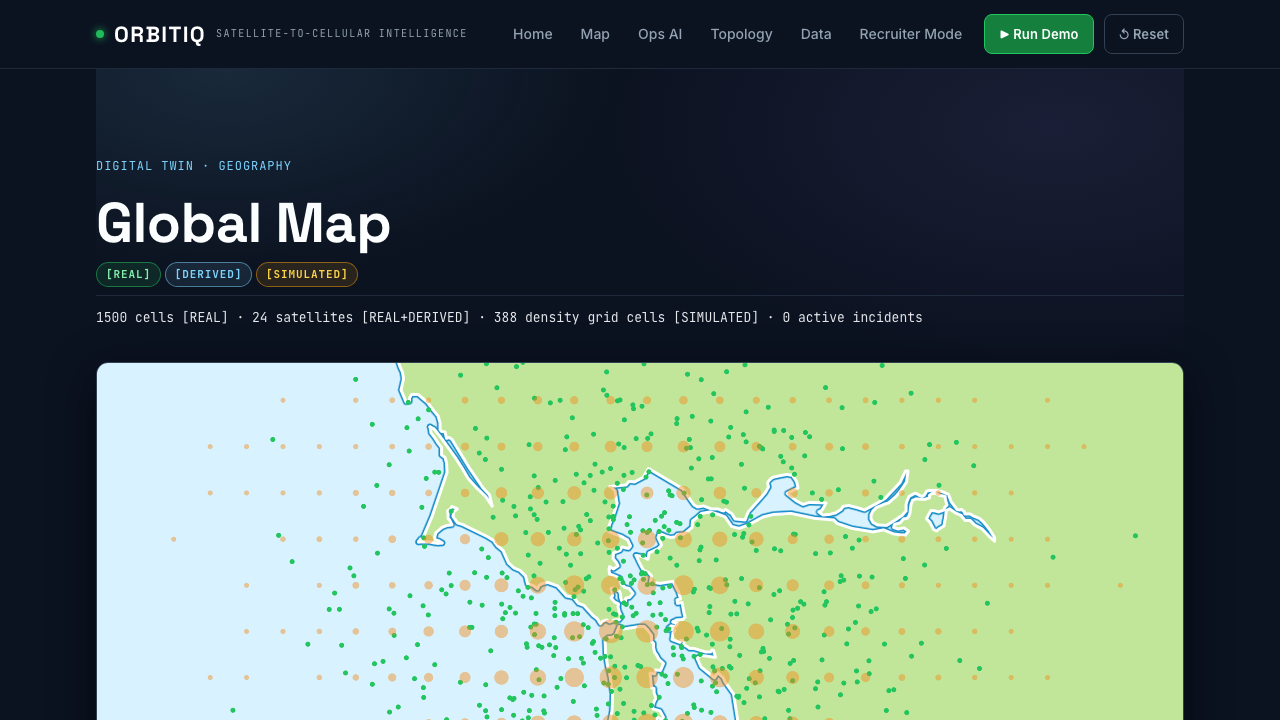
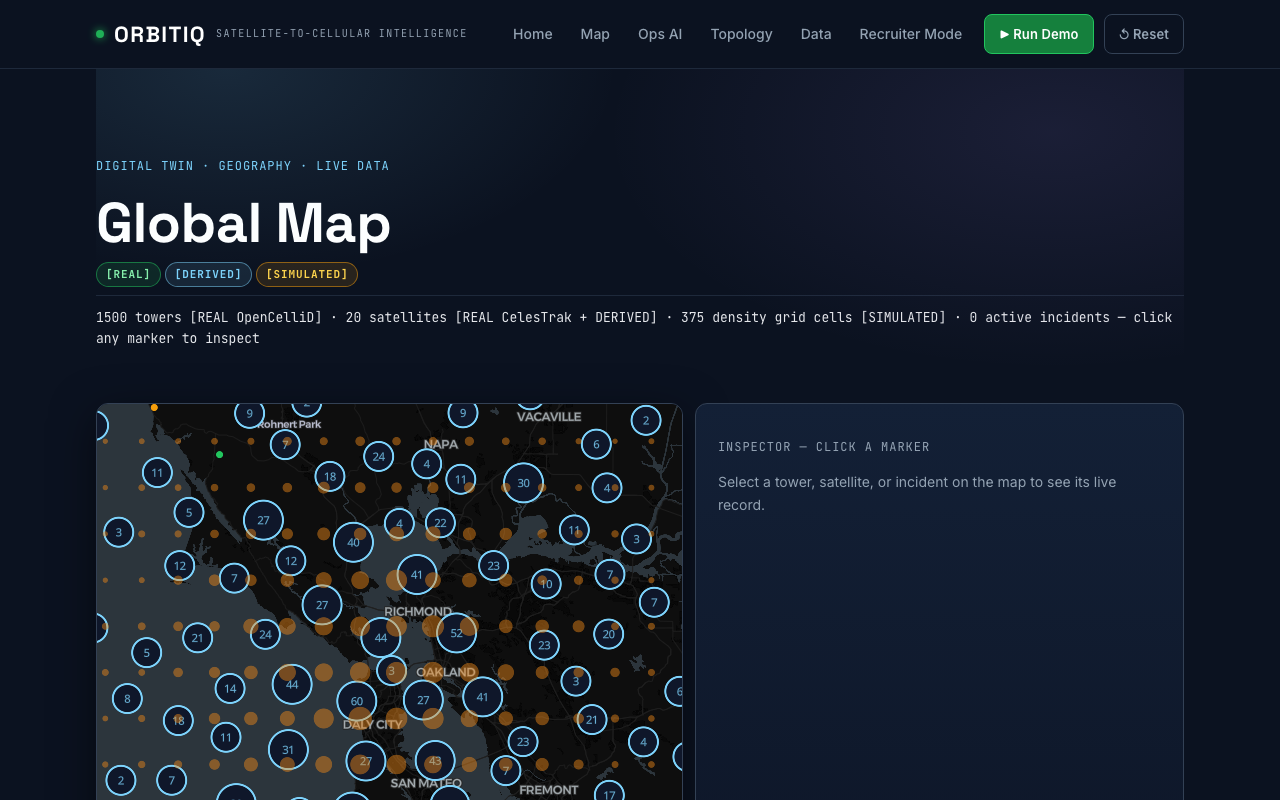
Map 10/10: verify tower placement, dark basemap, clusters, tracks
- Validated live towers (SF corridor, real MCC/MNC mix, no null island);
  full-corridor fetch with even subsample (was: first-1500 bunching)
- Carto dark-matter basemap, radio-colored towers, cluster expansion
- Live SGP4 ground-track polylines via new /satellites/tracks endpoint
- 8px click tolerance for small markers; quota-cooldown protection

diff --git a/frontend/src/pages/NetworkMap.tsx b/frontend/src/pages/NetworkMap.tsx
@@ -28,9 +28,9 @@ export function NetworkMap() {
     let cancelled = false;
     (async () => {
       try {
-        const [{ default: maplibregl }, , cells, sats, cov, inc] = await Promise.all([
+        const [{ default: maplibregl }, , cells, sats, cov, inc, trk] = await Promise.all([
           import('maplibre-gl'), import('maplibre-gl/dist/maplibre-gl.css'),
-          api.cells(1500), api.satellites(), api.coverage(), api.incidents(),
+          api.cells(1500), api.satellites(), api.coverage(), api.incidents(), api.tracks(),
         ]);
         if (cancelled) return;
         cache.current = { cells: cells.items, sats: sats.items, inc: inc.items || [] };
@@ -38,23 +38,40 @@ export function NetworkMap() {
         if (!ref.current) return;
         const map = new maplibregl.Map({
           container: ref.current,
-          style: 'https://demotiles.maplibre.org/style.json',
+          style: 'https://basemaps.cartocdn.com/gl/dark-matter-gl-style/style.json',
           center: [-122.4194, 37.7749], zoom: 8,
         });
         map.on('load', () => {
           const cellGeo = { type: 'FeatureCollection', features: cells.items.map((c: any) => ({
-            type: 'Feature', properties: { id: c.cell_id },
+            type: 'Feature', properties: { id: c.cell_id, radio: c.radio },
             geometry: { type: 'Point', coordinates: [c.lon, c.lat] } })) };
-          map.addSource('cells', { type: 'geojson', data: cellGeo as any });
-          map.addLayer({ id: 'cells', type: 'circle', source: 'cells',
-            paint: { 'circle-radius': 3, 'circle-color': '#22c55e' } });
+          map.addSource('cells', {
+            type: 'geojson', data: cellGeo as any,
+            cluster: true, clusterRadius: 42, clusterMaxZoom: 11,
+          });
+          map.addLayer({ id: 'clusters', type: 'circle', source: 'cells', filter: ['has', 'point_count'],
+            paint: { 'circle-radius': ['step', ['get', 'point_count'], 14, 25, 19, 100, 25],
+              'circle-color': '#0f172a', 'circle-stroke-width': 2, 'circle-stroke-color': '#7dd3fc' } });
+          map.addLayer({ id: 'cluster-count', type: 'symbol', source: 'cells', filter: ['has', 'point_count'],
+            layout: { 'text-field': '{point_count_abbreviated}', 'text-size': 11 },
+            paint: { 'text-color': '#7dd3fc' } });
+          map.addLayer({ id: 'cells-unclustered', type: 'circle', source: 'cells', filter: ['!', ['has', 'point_count']],
+            paint: { 'circle-radius': 4,
+              'circle-color': ['match', ['get', 'radio'], 'LTE', '#22c55e', 'NR', '#7dd3fc',
+                'UMTS', '#f59e0b', 'GSM', '#94a3b8', 'CDMA', '#fb923c', '#64748b'] } });
           const satGeo = { type: 'FeatureCollection', features: sats.items.map((s: any) => ({
             type: 'Feature', properties: { id: s.sat_id },
             geometry: { type: 'Point', coordinates: [s.lon, s.lat] } })) };
           map.addSource('sats', { type: 'geojson', data: satGeo as any });
           map.addLayer({ id: 'sats', type: 'circle', source: 'sats',
-            paint: { 'circle-radius': 6, 'circle-color': '#7dd3fc',
-              'circle-stroke-width': 2, 'circle-stroke-color': '#0b1220' } });
+            paint: { 'circle-radius': 6, 'circle-color': '#ffffff',
+              'circle-stroke-width': 2, 'circle-stroke-color': '#7dd3fc' } });
+          const trackGeo = { type: 'FeatureCollection', features: (trk.tracks || []).map((t: any) => ({
+            type: 'Feature', properties: { id: t.sat_id },
+            geometry: { type: 'LineString', coordinates: t.path } })) };
+          map.addSource('tracks', { type: 'geojson', data: trackGeo as any });
+          map.addLayer({ id: 'tracks', type: 'line', source: 'tracks',
+            paint: { 'line-color': '#7dd3fc', 'line-width': 1.5, 'line-opacity': 0.45 } });
           const denGeo = { type: 'FeatureCollection', features: cov.grid.map((g: any) => ({
             type: 'Feature', properties: { count: g.count, lat: g.avg_latency_ms },
             geometry: { type: 'Point', coordinates: [g.lon, g.lat] } })) };
@@ -71,13 +88,22 @@ export function NetworkMap() {
             paint: { 'circle-radius': 9, 'circle-color': '#ef4444',
               'circle-stroke-width': 2, 'circle-stroke-color': '#fff' } });
           map.on('click', (e: any) => {
-            const feats = map.queryRenderedFeatures(e.point, {
-              layers: ['incidents', 'sats', 'cells'],
+            // 8px tolerance box: small tower dots stay clickable
+            const tol: any = [[e.point.x - 8, e.point.y - 8], [e.point.x + 8, e.point.y + 8]];
+            const feats = map.queryRenderedFeatures(tol, {
+              layers: ['incidents', 'sats', 'clusters', 'cells-unclustered'],
             });
             if (!feats.length) { setSel(null); return; }
             const f = feats[0];
             const id = f.properties?.id;
-            if (f.layer.id === 'cells') {
+            if (f.layer.id === 'clusters') {
+              const src: any = map.getSource('cells');
+              src.getClusterExpansionZoom(f.properties?.cluster_id, (err: any, zoom: number) => {
+                if (!err) map.easeTo({ center: (f.geometry as any).coordinates, zoom });
+              });
+              return;
+            }
+            if (f.layer.id === 'cells-unclustered') {
               const c = cache.current.cells.find((x: any) => x.cell_id === id);
               if (c) setSel({ kind: 'cell', data: c });
             } else if (f.layer.id === 'sats') {
@@ -148,10 +174,14 @@ export function NetworkMap() {
         </div>
       </div>
       <div className="map-legend" aria-label="Map legend">
-        <span><i className="sw sw-cell" />Tower (OpenCelliD)</span>
-        <span><i className="sw sw-sat" />Satellite (CelesTrak)</span>
+        <span><i className="sw" style={{ background: '#22c55e' }} />LTE</span>
+        <span><i className="sw" style={{ background: '#7dd3fc' }} />NR / Satellite</span>
+        <span><i className="sw" style={{ background: '#f59e0b' }} />UMTS</span>
+        <span><i className="sw" style={{ background: '#94a3b8' }} />GSM</span>
+        <span><i className="sw" style={{ background: '#fb923c' }} />CDMA</span>
         <span><i className="sw sw-den" />Device density</span>
         <span><i className="sw sw-inc" />Incident</span>
+        <span><i className="sw" style={{ background: 'transparent', borderTop: '2px solid #7dd3fc', borderRadius: 0, height: 0, marginTop: 5 }} />Ground track</span>
       </div>
       <div className="panel" style={{ marginTop: 16 }} aria-label="Space weather">
         <div className="sec-head">

diff --git a/frontend/src/api.ts b/frontend/src/api.ts
@@ -16,6 +16,7 @@ export const api = {
   health: () => get<any>('/api/v1/network/health'),
   cells: (limit = 500) => get<any>(`/api/v1/cells?limit=${limit}`),
   satellites: () => get<any>('/api/v1/satellites'),
+  tracks: () => get<any>('/api/v1/satellites/tracks?minutes=30&step_s=60'),
   coverage: () => get<any>('/api/v1/coverage'),
   incidents: () => get<any>('/api/v1/incidents'),
   predictions: () => get<any>('/api/v1/predictions?limit=200'),

diff --git a/backend/data/ingest.py b/backend/data/ingest.py
@@ -18,6 +18,7 @@ SAMPLE_TLE = ROOT / "data" / "sample" / "celestrak_sample.tle"
 SAMPLE_SW = ROOT / "data" / "sample" / "noaa_sw_sample.json"
 LIVE_CELL_CACHE = ROOT / "data" / "raw" / "opencellid_live.json"
 LIVE_TLE_CACHE = ROOT / "data" / "raw" / "celestrak.tle"
+COOLDOWN_FILE = ROOT / "data" / "raw" / ".opencellid_cooldown"
 
 OPENCELLID_AREA_URL = "https://opencellid.org/cell/getInArea"
 # Demo corridor: San Francisco core. Tiles stay under OpenCelliD's
@@ -28,7 +29,40 @@ MAX_LIVE_CELLS = 2000
 MAX_LIVE_REQUESTS = 120
 
 
+def _cooling_down() -> bool:
+    """True while a recorded daily-limit cooldown is in effect (UTC midnight)."""
+    try:
+        if COOLDOWN_FILE.exists():
+            import time
+            retry_after = float(COOLDOWN_FILE.read_text().strip())
+            if time.time() < retry_after:
+                return True
+            COOLDOWN_FILE.unlink()
+    except Exception as e:
+        log.debug("cooldown check failed: %s", e)
+    return False
+
+
+def _record_cooldown() -> None:
+    """Stop live attempts until next UTC midnight (quota resets daily)."""
+    try:
+        import datetime as _dt
+        now = _dt.datetime.now(_dt.timezone.utc)
+        midnight = (now + _dt.timedelta(days=1)).replace(hour=0, minute=0, second=0, microsecond=0)
+        COOLDOWN_FILE.parent.mkdir(parents=True, exist_ok=True)
+        COOLDOWN_FILE.write_text(str(midnight.timestamp()))
+        log.warning("OpenCelliD daily limit hit; cooling down until UTC midnight")
+    except Exception as e:
+        log.debug("cooldown record failed: %s", e)
+
+
+def _is_quota_error(data: dict) -> bool:
+    return isinstance(data, dict) and data.get("code") in (7, 8, 9)  # daily/rate limit family
+
+
 def _snapshot_mode() -> bool:
+    """Deterministic offline mode: snapshots only, no network (used by CI)."""
+    return os.getenv("ORBITIQ_DATA", "").lower() == "snapshot"
     """Deterministic offline mode: snapshots only, no network (used by CI)."""
     return os.getenv("ORBITIQ_DATA", "").lower() == "snapshot"
 
@@ -77,12 +111,15 @@ def load_cells(limit: int = 5000, source_csv: str | None = None) -> list[dict]:
     if source_csv:
         return _load_csv(Path(source_csv), limit)
     if not _snapshot_mode() and os.getenv("OPENCELLID_API_KEY"):
-        try:
-            cells = _load_live_cells(limit)
-            if cells:
-                return cells
-        except Exception as e:
-            log.warning("live OpenCelliD fetch failed, falling back: %s", e)
+        if _cooling_down():
+            log.info("OpenCelliD cooling down; using snapshot/cache")
+        else:
+            try:
+                cells = _load_live_cells(limit)
+                if cells:
+                    return cells
+            except Exception as e:
+                log.warning("live OpenCelliD fetch failed, falling back: %s", e)
     if not _snapshot_mode():
         cached = _load_live_cache(limit)
         if cached:
@@ -122,20 +159,24 @@ def _load_live_cache(limit: int) -> list[dict]:
 
 
 def _load_live_cells(limit: int) -> list[dict]:
-    """Fetch real towers from OpenCelliD, tiled under the per-request area cap."""
+    """Fetch real towers from OpenCelliD, tiled under the per-request area cap.
+
+    Tiles the WHOLE corridor first, then spatially-uniform subsamples to the
+    target — otherwise the first tiles fill the quota and towers bunch up in
+    one corner of the map.
+    """
     import httpx
     if os.getenv("OPENCELLID_REFRESH") != "1" and LIVE_CELL_CACHE.exists():
         return _load_live_cache(limit)  # credits cost nothing twice
     key = os.getenv("OPENCELLID_API_KEY", "")
     latmin, lonmin, latmax, lonmax = DEMO_BBOX
-    cells: list[dict] = []
+    pool: list[dict] = []
     seen: set[str] = set()
     reqs = 0
     lat = latmin
-    target = min(limit, MAX_LIVE_CELLS)
-    while lat < latmax and len(cells) < target and reqs < MAX_LIVE_REQUESTS:
+    while lat < latmax and reqs < MAX_LIVE_REQUESTS:
         lon = lonmin
-        while lon < lonmax and len(cells) < target and reqs < MAX_LIVE_REQUESTS:
+        while lon < lonmax and reqs < MAX_LIVE_REQUESTS:
             tile = (lat, lon, min(lat + TILE_DEG, latmax), min(lon + TILE_DEG, lonmax))
             offset = 0
             while True:
@@ -147,6 +188,8 @@ def _load_live_cells(limit: int) -> list[dict]:
                 r.raise_for_status()
                 data = r.json()
                 if "error" in data:
+                    if _is_quota_error(data):
+                        _record_cooldown()
                     raise RuntimeError(f"OpenCelliD: {data}")
                 batch = data.get("cells", [])
                 for row in batch:
@@ -156,19 +199,24 @@ def _load_live_cells(limit: int) -> list[dict]:
                         continue
                     if norm and norm["cell_id"] not in seen:
                         seen.add(norm["cell_id"])
-                        cells.append(norm)
-                if len(batch) < 50 or len(cells) >= target or reqs >= MAX_LIVE_REQUESTS:
+                        pool.append(norm)
+                if len(batch) < 50 or reqs >= MAX_LIVE_REQUESTS:
                     break
                 offset += 50
             lon += TILE_DEG
         lat += TILE_DEG
-    if not cells:
+    if not pool:
         raise RuntimeError("live fetch returned no cells")
+    # Even geographic coverage: stable sort, then uniform stride to target.
+    pool.sort(key=lambda c: c["cell_id"])
+    target = min(limit, MAX_LIVE_CELLS)
+    stride = max(1, len(pool) // target)
+    cells = pool[::stride][:target]
     LIVE_CELL_CACHE.parent.mkdir(parents=True, exist_ok=True)
     LIVE_CELL_CACHE.write_text(json.dumps(
-        {"cells": cells[:target], "bbox": DEMO_BBOX}, indent=1))
-    log.info("fetched %d live cells in %d requests (cached)", len(cells[:target]), reqs)
-    return cells[:target]
+        {"cells": cells, "bbox": DEMO_BBOX, "pool": len(pool)}, indent=1))
+    log.info("fetched %d live cells (pool %d) in %d requests (cached)", len(cells), len(pool), reqs)
+    return cells
 
 
 def _resolve_cell_source() -> Path:

diff --git a/backend/services/digital_twin.py b/backend/services/digital_twin.py
@@ -58,8 +58,29 @@ class DigitalTwin:
             "ai_recommendations": len(self.events),
         }
 
+    def satellite_tracks(self, minutes: int = 30, step_s: int = 60) -> list[dict]:
+        """Ground-track polylines (past+future) for each satellite, via SGP4."""
+        from datetime import timedelta
+        now = datetime.now(timezone.utc)
+        tracks = []
+        for name, l1, l2 in self.tles:
+            path = []
+            t = now - timedelta(minutes=minutes)
+            end = now + timedelta(minutes=minutes)
+            while t <= end:
+                try:
+                    fix = propagate_tle(name, l1, l2, t)
+                    path.append([fix.lon, fix.lat])
+                except Exception as e:
+                    log.warning("track point failed for %s: %s", name, e)
+                    break
+                t += timedelta(seconds=step_s)
+            if path:
+                tracks.append({"sat_id": name, "path": path})
+        return tracks
+
     def satellite_states(self, gs_lat: float = 37.7749, gs_lon: float = -122.4194,
-                           limit: Optional[int] = None) -> list[dict]:
+                         limit: Optional[int] = None) -> list[dict]:
         now = datetime.now(timezone.utc)
         out = []
         tles = self.tles[:limit] if limit else self.tles

diff --git a/backend/main.py b/backend/main.py
@@ -141,6 +141,16 @@ def satellites(gs_lat: float = 37.7749, gs_lon: float = -122.4194):
             "inference_ms": round((time.time() - t0) * 1000, 1)}
 
 
+@app.get("/api/v1/satellites/tracks")
+def satellite_tracks(minutes: int = Query(30, ge=5, le=60), step_s: int = Query(60, ge=30, le=300)):
+    t0 = time.time()
+    tracks = TWIN.satellite_tracks(minutes=minutes, step_s=step_s)
+    return {"tracks": tracks, "count": len(tracks),
+            "attribution": "Orbital data: CelesTrak (public TLE, SGP4)",
+            "provenance": "REAL position + DERIVED ground tracks",
+            "compute_ms": round((time.time() - t0) * 1000, 1)}
+
+
 @app.get("/api/v1/devices")
 def devices(limit: int = Query(200, ge=1, le=2000)):
     return {"items": TWIN.sim.snapshot(limit), "total": len(TWIN.sim.devices), "provenance": "SIMULATED"}

diff --git a/tests/test_orbitiq.py b/tests/test_orbitiq.py
@@ -103,6 +103,17 @@ def test_satellite_visibility_math():
     assert g2["visible"] is False
 
 
+def test_satellite_tracks_shape(client):
+    r = client.get("/api/v1/satellites/tracks?minutes=10&step_s=120")
+    assert r.status_code == 200
+    body = r.json()
+    assert body["count"] >= 10
+    t0 = body["tracks"][0]
+    assert len(t0["path"]) == 11  # -10..+10 min at 120 s steps
+    lon, lat = t0["path"][0]
+    assert -180 <= lon <= 180 and -90 <= lat <= 90
+
+
 def test_api_surface_sweep(client):
     """Exercise remaining endpoints so coverage reflects the real surface."""
     assert client.get("/api/v1/devices?limit=5").status_code == 200
